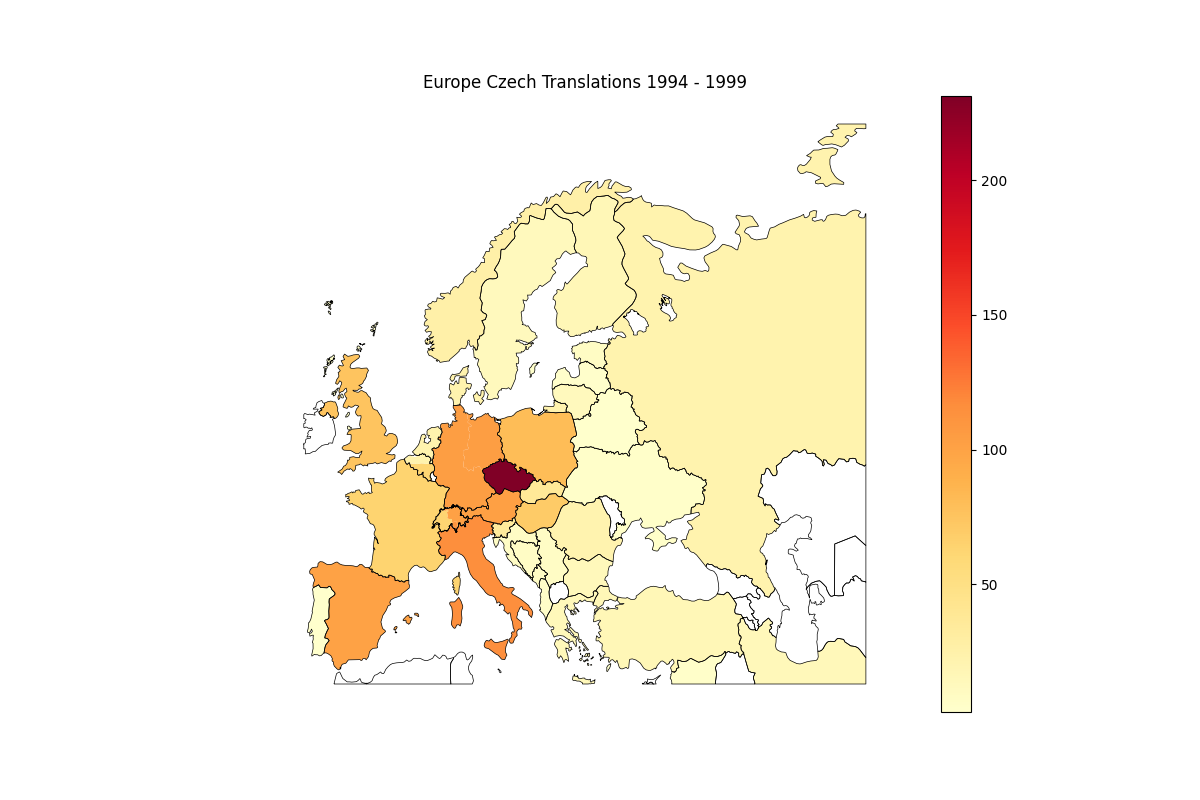
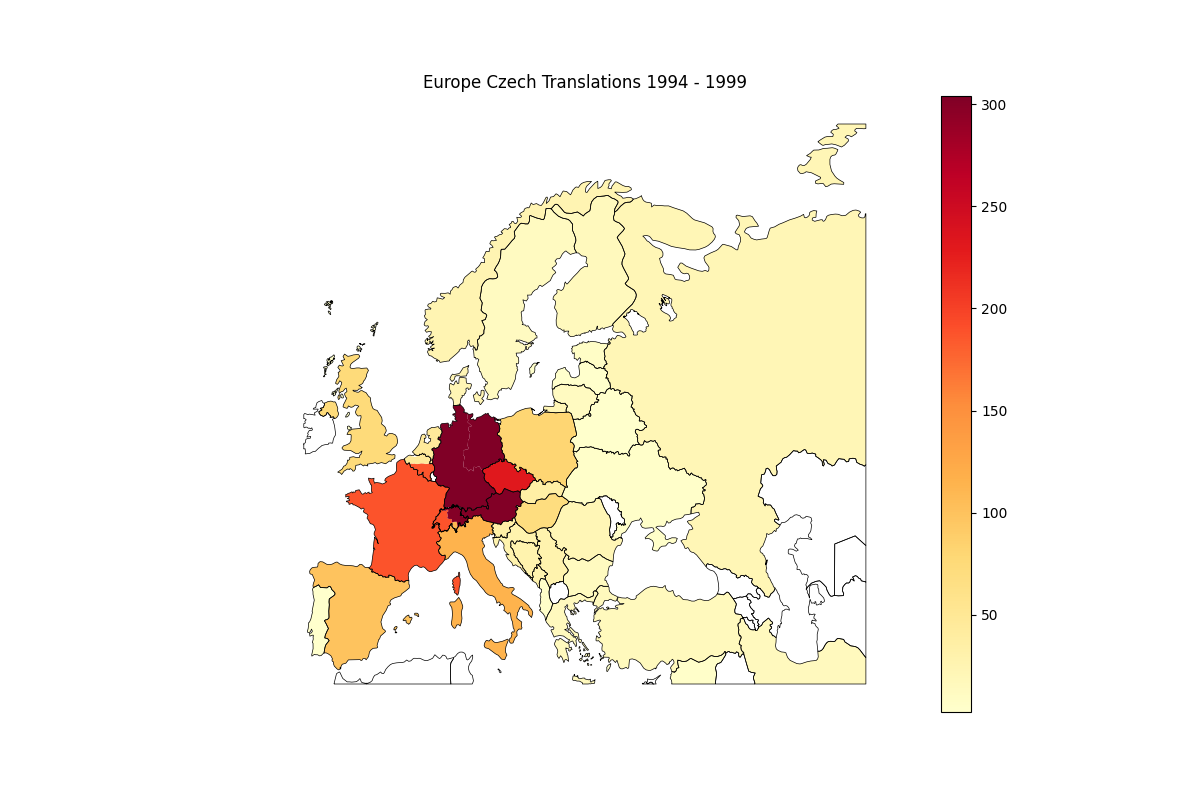
europe maps

Changed region(s): [[0.2467, 0.4375, 0.4933, 0.8438], [0.8017, 0.375, 0.8325, 0.4062], [0.8017, 0.125, 0.8325, 0.1562]]

diff --git a/save_weights.py b/save_weights.py
@@ -1,12 +1,12 @@
 import pandas as pd
 
-def save_to_dict(countries, map_year, df_dict, row, div):
+def save_to_dict(countries, map_year, df_dict, row):
     for country in countries:
                 key = (country, map_year) 
                 if key in df_dict:
-                    df_dict[key] += row['weight'] / div   
+                    df_dict[key] += row['weight']    
                 else:
-                    df_dict[key] =  row['weight'] / div
+                    df_dict[key] =  row['weight'] 
 
 #geotagged_df = pd.read_csv("geotagged/geotagged_germany_country_update.csv")
 geotagged_df = pd.read_excel("geotagged/geotagged_germany_country_update.xlsx")
@@ -50,10 +50,6 @@ for map_year in map_years:
         if map_year < 1994:
             german_cond = german_language and (row['region_country_name'] == 'West Germany' or german_speaking) 
             german_countries = ['West Germany', 'Austria', 'Switzerland ger',  'Liechtenstein'] 
-        
-            czech_slovak_speaking = row['geonames_country'] == 'Czechia' or row['geonames_country'] == 'Slovakia'
-            czech_slovak_cond = czech_slovak_speaking
-            czech_slovak_countries = ['Czech Republic', 'Slovakia']
 
             germany_rest_cond = False
 
@@ -61,64 +57,56 @@ for map_year in map_years:
             german_cond = german_language and (row['geonames_country'] == 'Germany' or german_speaking)
             german_countries = ['West Germany', 'East Germany', 'Austria', 'Switzerland ger',  'Liechtenstein'] 
 
-            germany_rest_cond = row['geonames_country'] == 'Germany'
-
-            czech_slovak_cond = False  
+            germany_rest_cond = row['geonames_country'] == 'Germany'  
         
         ##### GERMAN SPEAKING ##### 
 
         if german_cond:
-            save_to_dict(german_countries, map_year, df_dict, row, 3)  
+            save_to_dict(german_countries, map_year, df_dict, row)  
             continue
 
         if germany_rest_cond:
-            save_to_dict(['West Germany', 'East Germany'], map_year, df_dict, row, 1)
+            save_to_dict(['West Germany', 'East Germany'], map_year, df_dict, row)
             continue
 
         ##### FRENCH SPEAKING #### 
 
         if french_cond:
-            save_to_dict(french_countries, map_year, df_dict, row, 3)  
+            save_to_dict(french_countries, map_year, df_dict, row)  
             continue
 
         ##### ITALIAN SPEAKING #### 
 
         if italian_cond:
-            save_to_dict(italian_countries, map_year, df_dict, row, 1)  
+            save_to_dict(italian_countries, map_year, df_dict, row)  
             continue
 
         ##### DUTCH SPEAKING #### 
         
         if dutch_cond:
-            save_to_dict(dutch_countries, map_year, df_dict, row, 2)
+            save_to_dict(dutch_countries, map_year, df_dict, row)
             continue
         
         ##### SWITZERLAND #### 
 
         if swiss_cond:
-            save_to_dict(swiss_countries, map_year, df_dict, row, 1)  
+            save_to_dict(swiss_countries, map_year, df_dict, row)  
             continue
 
         ##### BELGIUM #### 
 
         if belgian_cond:
-            save_to_dict(belgian_countries, map_year, df_dict, row, 1)  
+            save_to_dict(belgian_countries, map_year, df_dict, row)  
             continue
         
         ##### SERBO-CROATIAN SPEAKING ####         
 
         if serbo_croatian_cond:
             if map_year < 1994:
-                save_to_dict(serbo_croatian_countries, map_year, df_dict, row, 1)
+                save_to_dict(serbo_croatian_countries, map_year, df_dict, row)
             else:
-                save_to_dict(serbo_croatian_countries, map_year, df_dict, row, 4)     
+                save_to_dict(serbo_croatian_countries, map_year, df_dict, row)     
             continue                
-
-        ##### CZECH SLOVAK SPEAKING ####         
-
-        if czech_slovak_cond:
-            save_to_dict(czech_slovak_countries, map_year, df_dict, row, 1)   
-            continue
 
         ##### REST #### 
 
